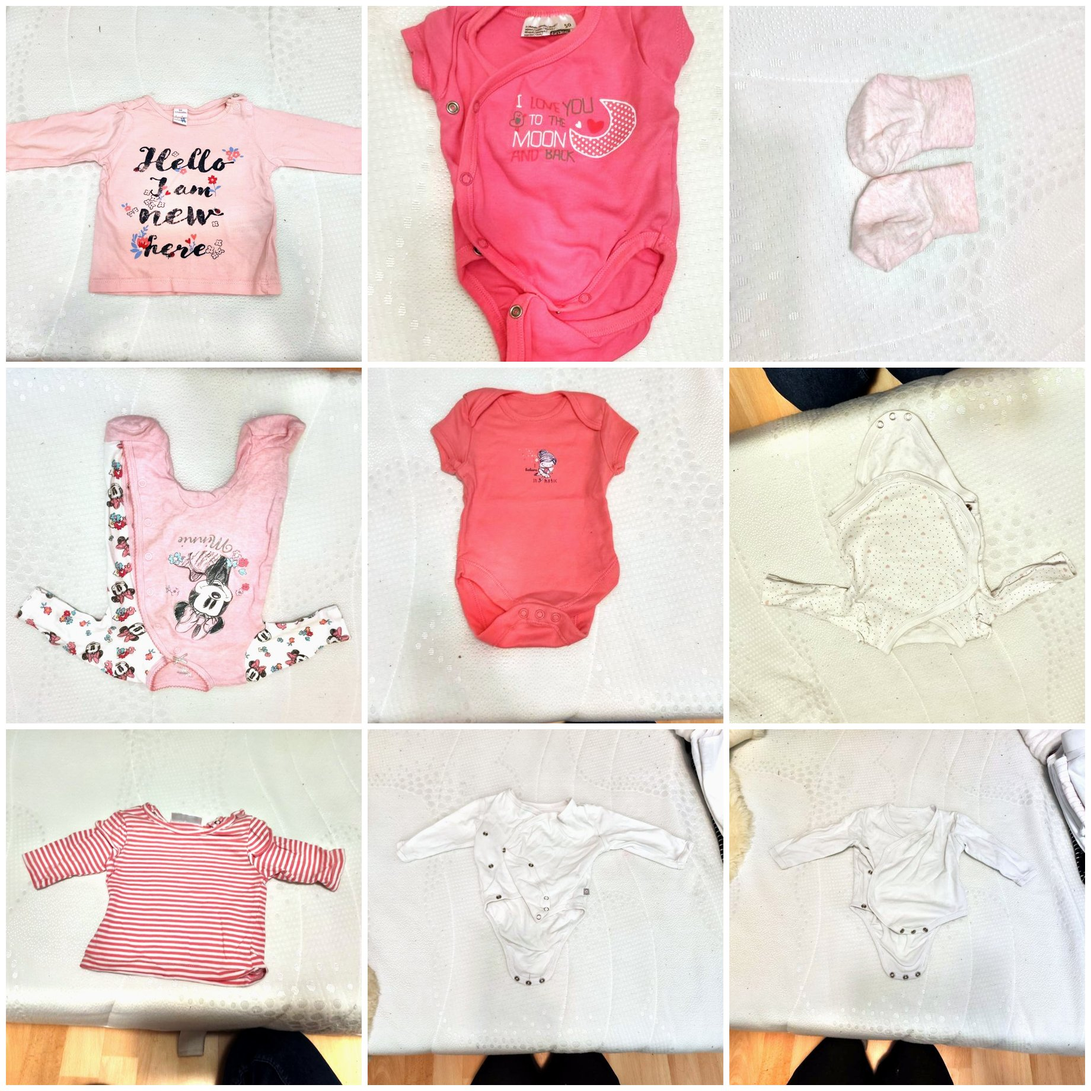
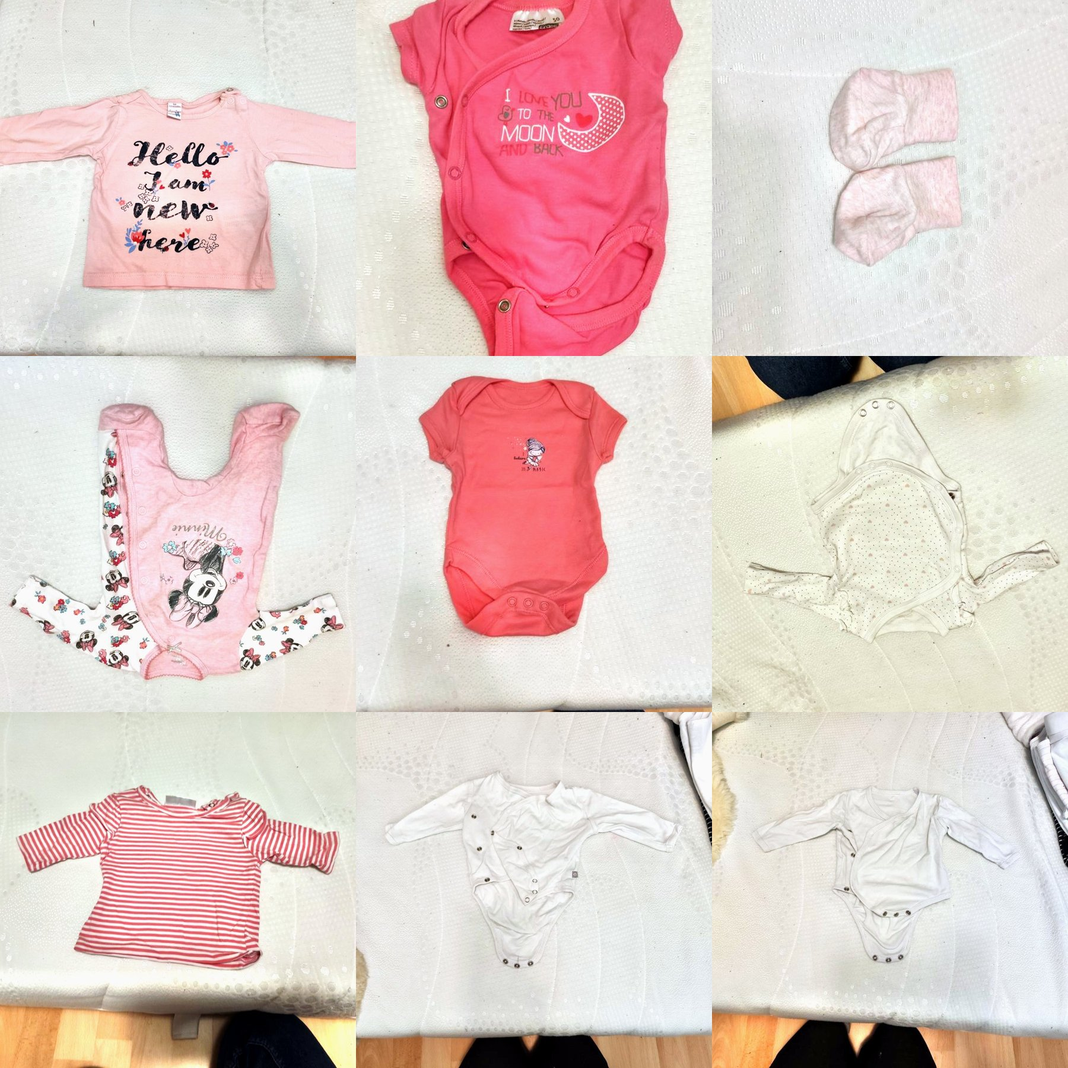
Kollagen ohne Zwischenräume
Claude-Session: https://claude.ai/code/session_01JEXW45GuLk9Rvbj3Lw3mTj

diff --git a/babyklamotten/kollage.py b/babyklamotten/kollage.py
@@ -16,7 +16,7 @@ from PIL import Image, ImageOps
 
 BASIS = Path(__file__).parent
 KACHEL = 600
-ABSTAND = 10
+ABSTAND = 0
 PRO_KOLLAGE = 9
 
 
